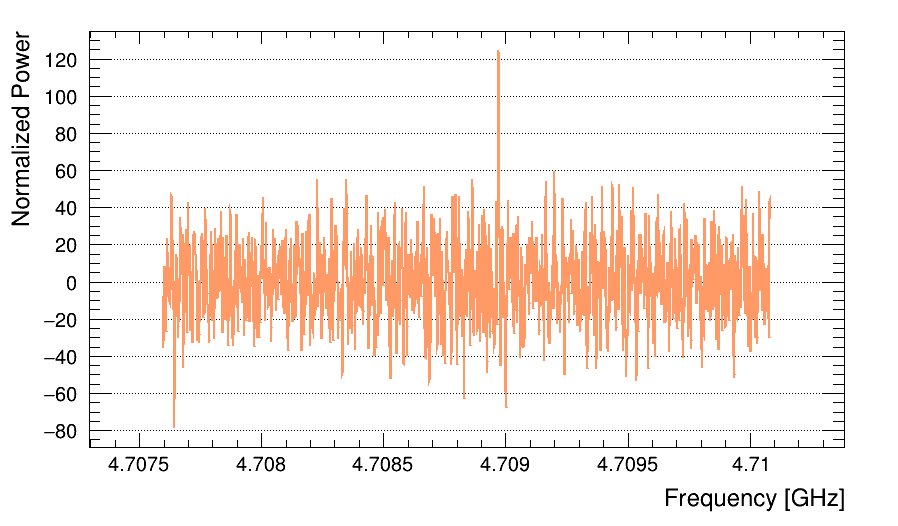
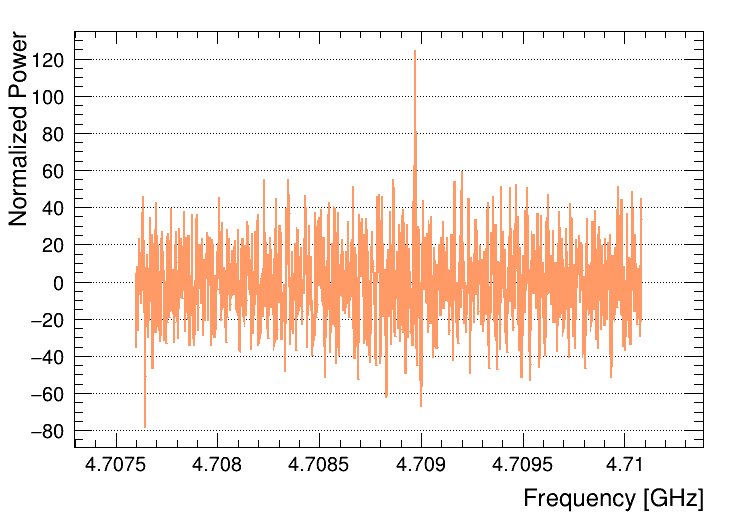
add figures

diff --git a/faxion.tex b/faxion.tex
@@ -42,8 +42,9 @@ with respect to each other with an arbitrary offset in the vertical scale.}
 
 \begin{figure}[htbp]                                                                                                  
     \centering                                                                                                                       
-    \includegraphics[width=0.48\textwidth]{figures/Power_CombSpectrum_FaxionRun_AllSteps_Rescan_SG4_W201_LqWeight.png}
-    \caption{The power spectrum after combining the spectra with overlapping 
+    \includegraphics[width=0.48\textwidth]{figures/Power_CombSpectrum_FaxionRun_AllSteps_Rescan_SG4_W201.png}
+    \includegraphics[width=0.48\textwidth]{figures/SNR_CombSpectrum_FaxionRun_AllSteps_Rescan_SG4_W201.png}
+    \caption{The power (left) and signal-to-noise ratio (right) after combining the spectra with overlapping 
 frequencies vertically. The procedure and the weights for combination 
 are summarized in Section~\ref{sec:ana}.}                
 \label{fig:faxioncombine}                                                                                                            
@@ -53,7 +54,8 @@ are summarized in Section~\ref{sec:ana}.}
 \begin{figure}[htbp]                                                                                                  
     \centering                                                                                                                       
     \includegraphics[width=0.48\textwidth]{figures/Power_GrandSpectrum_FaxionRun_AllSteps_Rescan_Merged_5bin_SG4_W201_LqWeight.png}
-    \caption{The power spectrum after merging the power measured in five 
+    \includegraphics[width=0.48\textwidth]{figures/SNR_GrandSpectrum_FaxionRun_AllSteps_Rescan_Merged_5bin_SG4_W201_LqWeight.png}
+    \caption{The power (left) and signal-to-noise ratio (right) after merging the power measured in five 
 neighboring frequency bins. The procedure and the weights for merging 
 are summarized in Section~\ref{sec:ana}.}                
 \label{fig:faxionmerge}    

diff --git a/results.tex b/results.tex
@@ -1,3 +1,4 @@
+\newpage
 \section{Results} \label{sec:results}
 Figure~\ref{fig:glimit} shows the ratio of the limits on \ggamma\ with respect 
 to the KSVZ benchmark value ($\ggamma=-0.97$) while Fig.~\ref{fig:gagglimit} 
